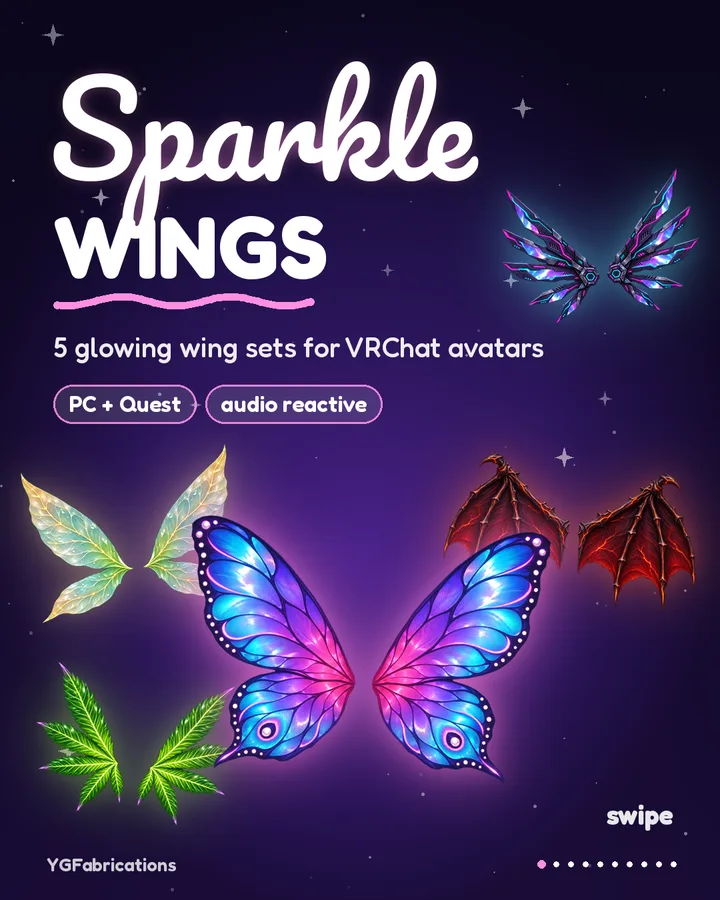
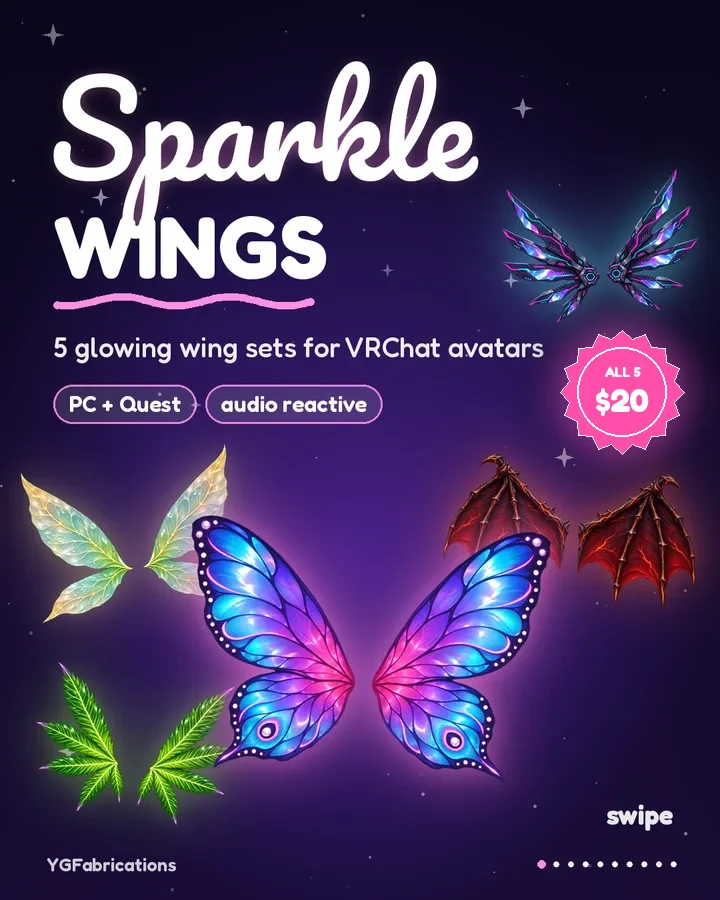
Sparkle Wings: $20 badge on cover, new $20 bundle slide
Claude-Session: https://claude.ai/code/session_01DtDhKbWdCW8su6Pw1yAVdK

Changed region(s): [[0.7639, 0.3422, 0.9778, 0.5289]]

diff --git a/index.html b/index.html
@@ -196,7 +196,7 @@ footer { text-align: center; color: var(--soft); font-size: .82rem; }
       <div class="newblock">
         <h3 class="newname">YG Sparkle Wings</h3>
         <div class="scroller" tabindex="0" aria-label="YG Sparkle Wings preview slides">
-          <a href="https://jinxxy.com/YGMackillaVR/YGSparkleWingsBundle" target="_blank" rel="noopener"><img src="img/wings-1.webp" alt="YG Sparkle Wings: 5 glowing wing sets for VRChat avatars" width="720" height="900"></a>
+          <a href="https://jinxxy.com/YGMackillaVR/YGSparkleWingsBundle" target="_blank" rel="noopener"><img src="img/wings-1.webp" alt="YG Sparkle Wings: 5 glowing wing sets for VRChat avatars, all 5 for $20" width="720" height="900"></a>
           <a href="https://jinxxy.com/YGMackillaVR/YGSparkleWingsBundle" target="_blank" rel="noopener"><img src="img/wings-2.webp" alt="Rave Cyberpunk wings" width="720" height="900" loading="lazy"></a>
           <a href="https://jinxxy.com/YGMackillaVR/YGSparkleWingsBundle" target="_blank" rel="noopener"><img src="img/wings-3.webp" alt="Pixie Elf wings" width="720" height="900" loading="lazy"></a>
           <a href="https://jinxxy.com/YGMackillaVR/YGSparkleWingsBundle" target="_blank" rel="noopener"><img src="img/wings-4.webp" alt="Neon Butterfly wings" width="720" height="900" loading="lazy"></a>
@@ -205,10 +205,11 @@ footer { text-align: center; color: var(--soft); font-size: .82rem; }
           <a href="https://jinxxy.com/YGMackillaVR/YGSparkleWingsBundle" target="_blank" rel="noopener"><img src="img/wings-7.webp" alt="Two color wheels: wing color and glow color" width="720" height="900" loading="lazy"></a>
           <a href="https://jinxxy.com/YGMackillaVR/YGSparkleWingsBundle" target="_blank" rel="noopener"><img src="img/wings-8.webp" alt="Motion modes: rest, flutter, fly and glide" width="720" height="900" loading="lazy"></a>
           <a href="https://jinxxy.com/YGMackillaVR/YGSparkleWingsBundle" target="_blank" rel="noopener"><img src="img/wings-9.webp" alt="Touch the wings and they sparkle back" width="720" height="900" loading="lazy"></a>
+          <a href="https://jinxxy.com/YGMackillaVR/YGSparkleWingsBundle" target="_blank" rel="noopener"><img src="img/wings-10.webp" alt="Sparkle Wings bundle: all 5 sets for $20" width="720" height="900" loading="lazy"></a>
         </div>
         <div class="newrow">
           <a class="btn" href="https://jinxxy.com/YGMackillaVR/YGSparkleWingsBundle" target="_blank" rel="noopener">Get YG Sparkle Wings: $20</a>
-          <small>5 music-reactive wing sets &middot; PC + Quest &middot; VRCFury drag and drop</small>
+          <small>all 5 music-reactive wing sets &middot; PC + Quest &middot; VRCFury drag and drop</small>
         </div>
       </div>
     </section>
